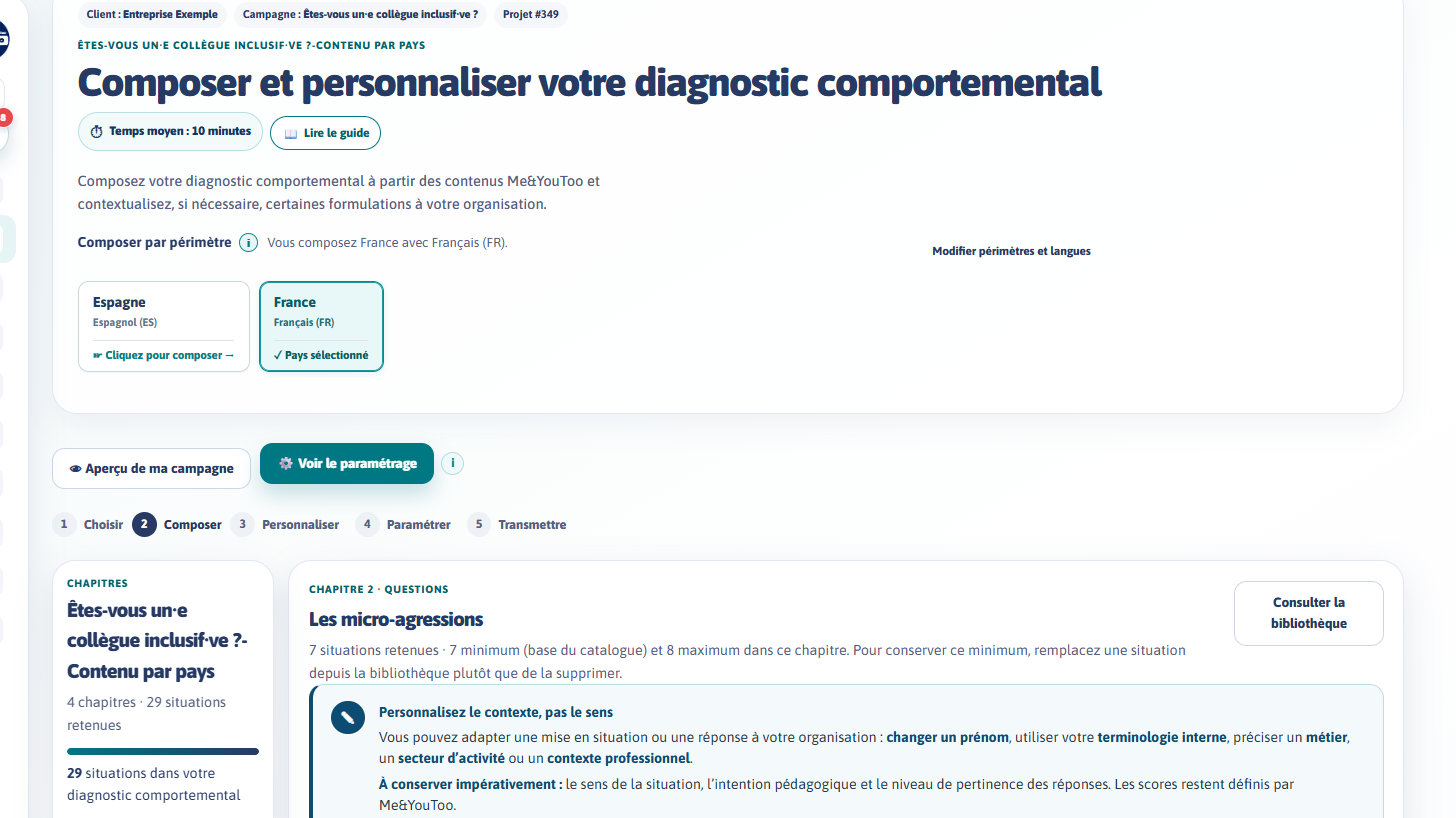
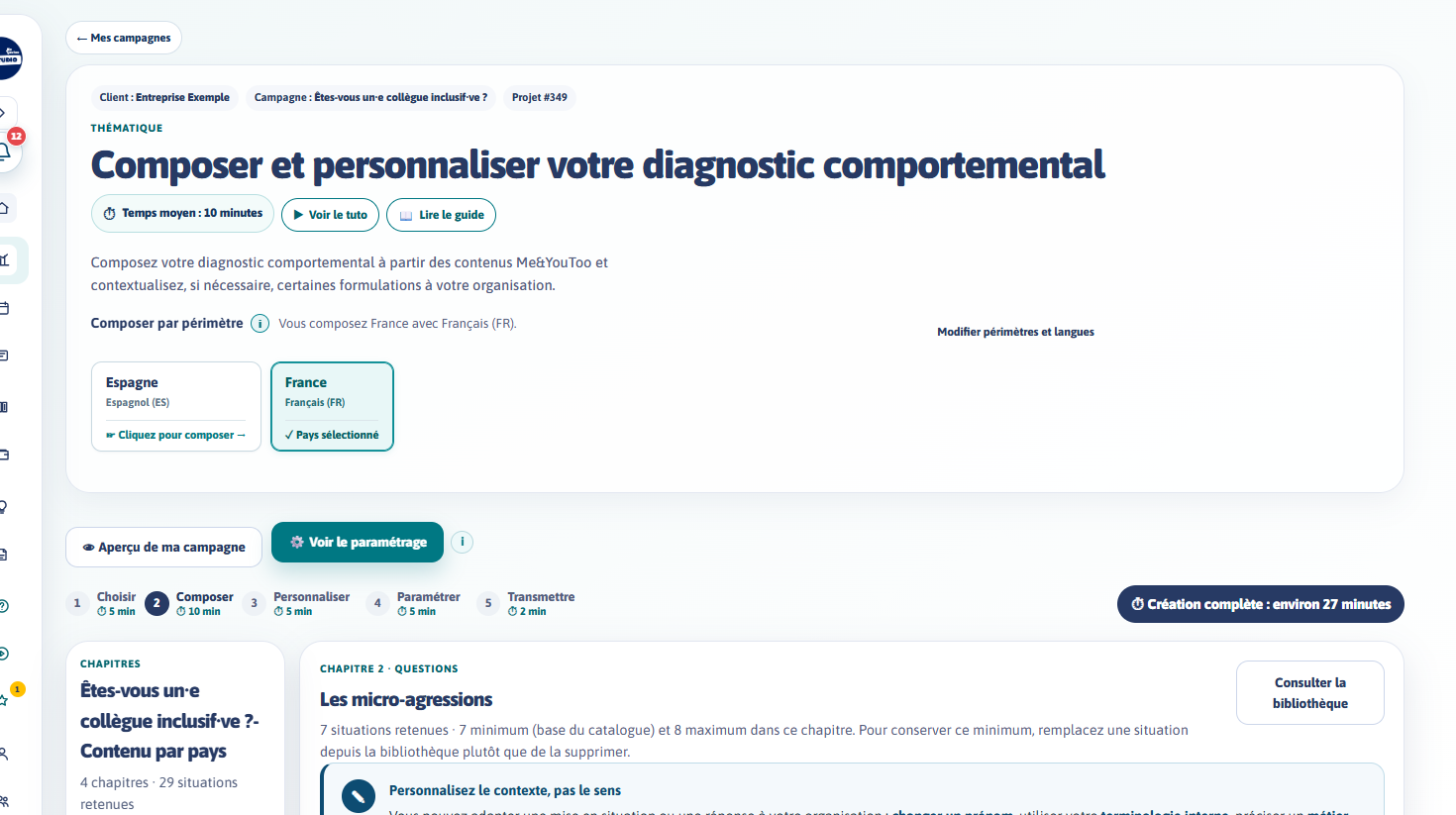
Tutos : captures du 6 novembre pour Composer

diff --git a/tutos/composer/index.html b/tutos/composer/index.html
@@ -20,19 +20,19 @@ window.TUTO={
   // Voix de Carole Michelon (enregistrée le 3 novembre 2026, nettoyée) ; « at » = début de chaque phrase.
   audio:'voix.mp3?v=2',
   scenes:[
-    {at:0,img:'ecran-1.png',box:[4.8,5,72,14],text:'Deuxième étape : composer votre diagnostic. Vous partez des contenus experts de Me&YouToo et vous les adaptez et personnalisez, si besoin, à votre organisation, à votre périmètre.'},
-    {at:10.96,img:'ecran-1.png',box:[5,34,21.5,11.8],text:'Votre campagne couvre plusieurs pays ? Cliquez sur un pays pour composer sa version, dans sa langue.'},
-    {at:18.5,img:'ecran-2.png',box:[4.6,33,13.2,42],text:'À gauche, les chapitres de votre diagnostic. Cliquez sur « Questions » pour ouvrir les situations d’un chapitre.'},
-    {at:26.38,img:'ecran-2.png',box:[20.5,3.5,62,12.5],text:'Le Studio indique combien de situations garder : ici, entre sept et huit. Sur certains thèmes, les chapitres peuvent être non personnalisables.'},
-    {at:35.64,img:'ecran-2.png',box:[21.2,16.4,74,29],text:'La règle d’or : personnalisez le contexte, pas le sens. Un prénom, un métier, votre vocabulaire interne : oui. Le sens et les scores restent ceux de Me&YouToo.'},
-    {at:47.62,img:'ecran-2.png',box:[84.8,3.6,10.3,8.2],text:'Si vous souhaitez ajouter une situation, piochez dans la bibliothèque Me&YouToo.'},
+    {at:0,img:'ecran-1.png?v=2',box:[5.8,16,71,10],text:'Deuxième étape : composer votre diagnostic. Vous partez des contenus experts de Me&YouToo et vous les adaptez et personnalisez, si besoin, à votre organisation, à votre périmètre.'},
+    {at:10.96,img:'ecran-1.png?v=2',box:[5.8,43.6,21.6,12.4],text:'Votre campagne couvre plusieurs pays ? Cliquez sur un pays pour composer sa version, dans sa langue.'},
+    {at:18.5,img:'ecran-2.png?v=2',box:[4.6,33,13.2,42],text:'À gauche, les chapitres de votre diagnostic. Cliquez sur « Questions » pour ouvrir les situations d’un chapitre.'},
+    {at:26.38,img:'ecran-2.png?v=2',box:[21.3,3,62,12.5],text:'Le Studio indique combien de situations garder : ici, entre sept et huit. Sur certains thèmes, les chapitres peuvent être non personnalisables.'},
+    {at:35.64,img:'ecran-2.png?v=2',box:[21.6,14.8,73.6,29.4],text:'La règle d’or : personnalisez le contexte, pas le sens. Un prénom, un métier, votre vocabulaire interne : oui. Le sens et les scores restent ceux de Me&YouToo.'},
+    {at:47.62,img:'ecran-2.png?v=2',box:[84.8,2.4,10.4,8],text:'Si vous souhaitez ajouter une situation, piochez dans la bibliothèque Me&YouToo.'},
     {at:52.5,img:'ecran-3.png',box:[63,13,32.5,49.5],text:'Cherchez par mot-clé, consultez les réponses et les scores, puis ajoutez une situation au chapitre.'},
-    {at:59.58,img:'ecran-4.png',box:[22.7,12.2,71.5,20.5],text:'Dépliez une situation pour la lire. Vous pouvez adapter son texte à votre organisation.'},
-    {at:66.12,img:'ecran-4.png',box:[22.7,39.6,71.5,50],text:'Affichez les réponses et les scores : la réponse la plus appropriée est signalée en vert.'},
-    {at:73.66,img:'ecran-5.png',box:[22.7,49.2,16.2,5.6],text:'Le sens d’une situation ne vous convient pas ? Ne la réécrivez pas : remplacez-la depuis la bibliothèque.'},
-    {at:81.46,img:'ecran-6.png',box:[22.7,12.2,71.5,33.6],text:'En changeant de pays, vous retrouvez la même situation dans sa langue. Le bouton « Vérifier les versions linguistiques » permet de comparer avec le texte de référence.'},
-    {at:92.7,img:'ecran-5.png',box:[81.8,44.6,11.9,3.4],text:'Tout est enregistré automatiquement, et Me&YouToo valide vos adaptations avant la publication.'},
-    {at:98.98,img:'ecran-1.png',box:[15.5,61.5,8.5,4.5],text:'Quand vos chapitres vous conviennent, passez à l’étape suivante : personnaliser les profils.'}
+    {at:59.58,img:'ecran-4.png?v=2',box:[23.4,14.6,71,20.4],text:'Dépliez une situation pour la lire. Vous pouvez adapter son texte à votre organisation.'},
+    {at:66.12,img:'ecran-4.png?v=2',box:[23.4,41.5,71,50],text:'Affichez les réponses et les scores : la réponse la plus appropriée est signalée en vert.'},
+    {at:73.66,img:'ecran-5.png?v=2',box:[23.4,72.8,16.2,5.6],text:'Le sens d’une situation ne vous convient pas ? Ne la réécrivez pas : remplacez-la depuis la bibliothèque.'},
+    {at:81.46,img:'ecran-6.png?v=2',box:[23.4,14.6,71,32],text:'En changeant de pays, vous retrouvez la même situation dans sa langue. Le bouton « Vérifier les versions linguistiques » permet de comparer avec le texte de référence.'},
+    {at:92.7,img:'ecran-5.png?v=2',box:[82,68,12,3.4],text:'Tout est enregistré automatiquement, et Me&YouToo valide vos adaptations avant la publication.'},
+    {at:98.98,img:'ecran-1.png?v=2',box:[16.5,71.5,8,4.6],text:'Quand vos chapitres vous conviennent, passez à l’étape suivante : personnaliser les profils.'}
   ],
   end:{title:'Votre diagnostic est composé',text:'Prochaine étape : personnaliser les profils que découvriront vos collaborateurs. Une question ? Le chat et l’équipe Me&YouToo sont là pour vous.'}
 };
